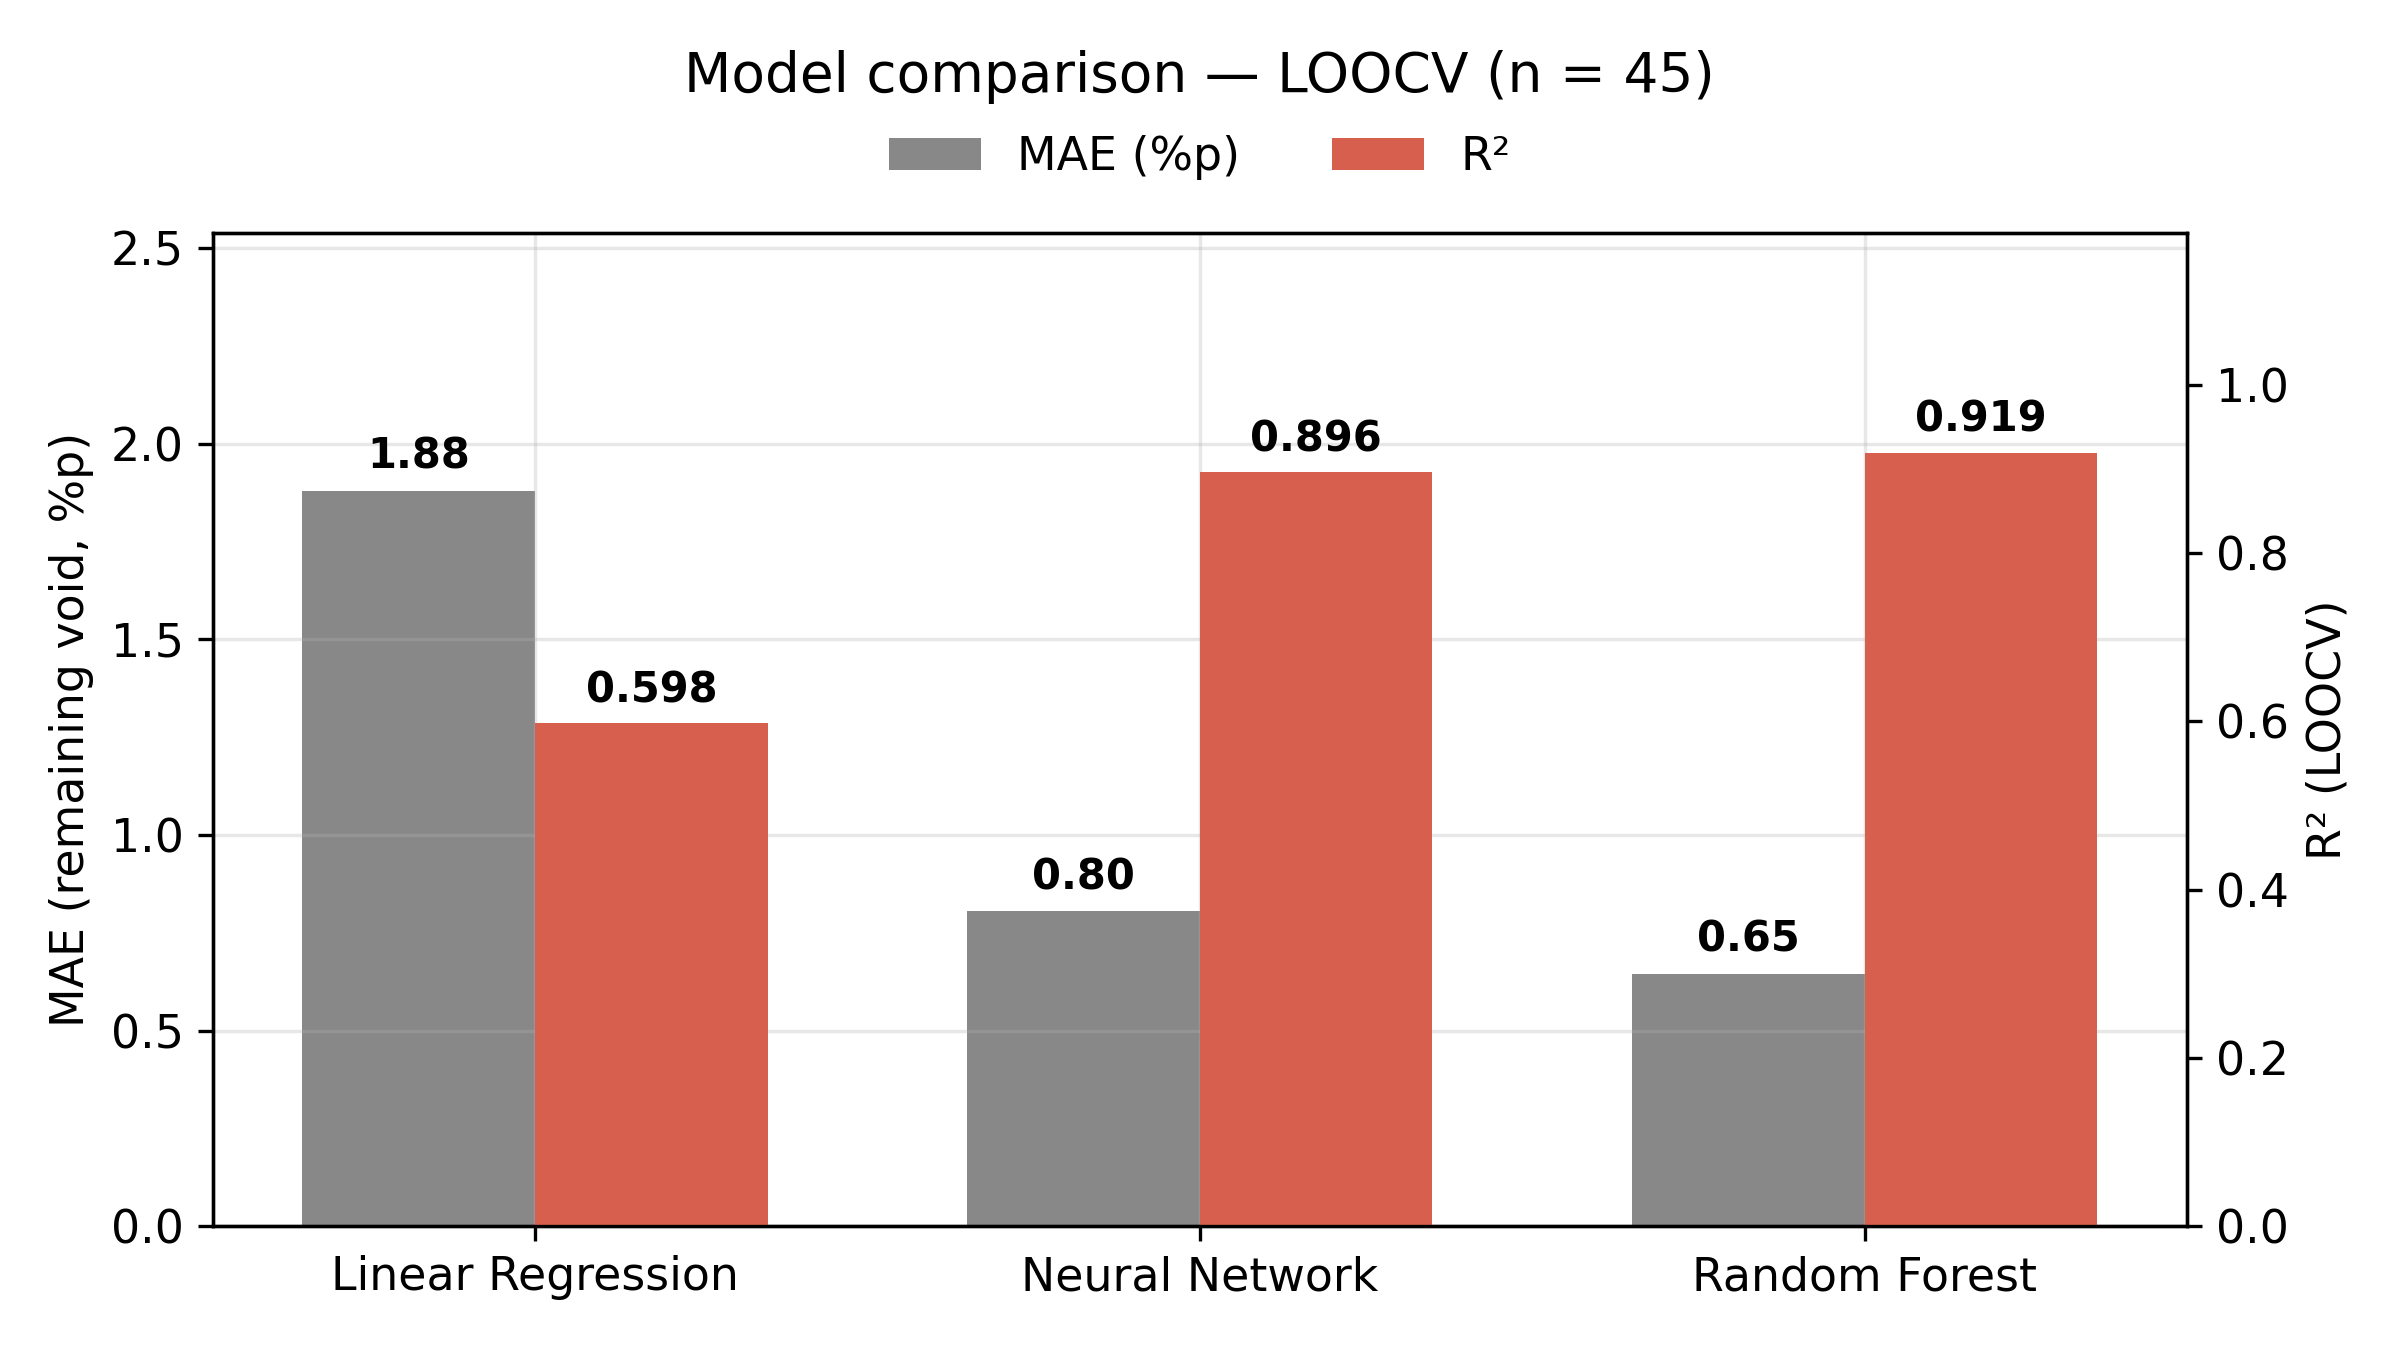
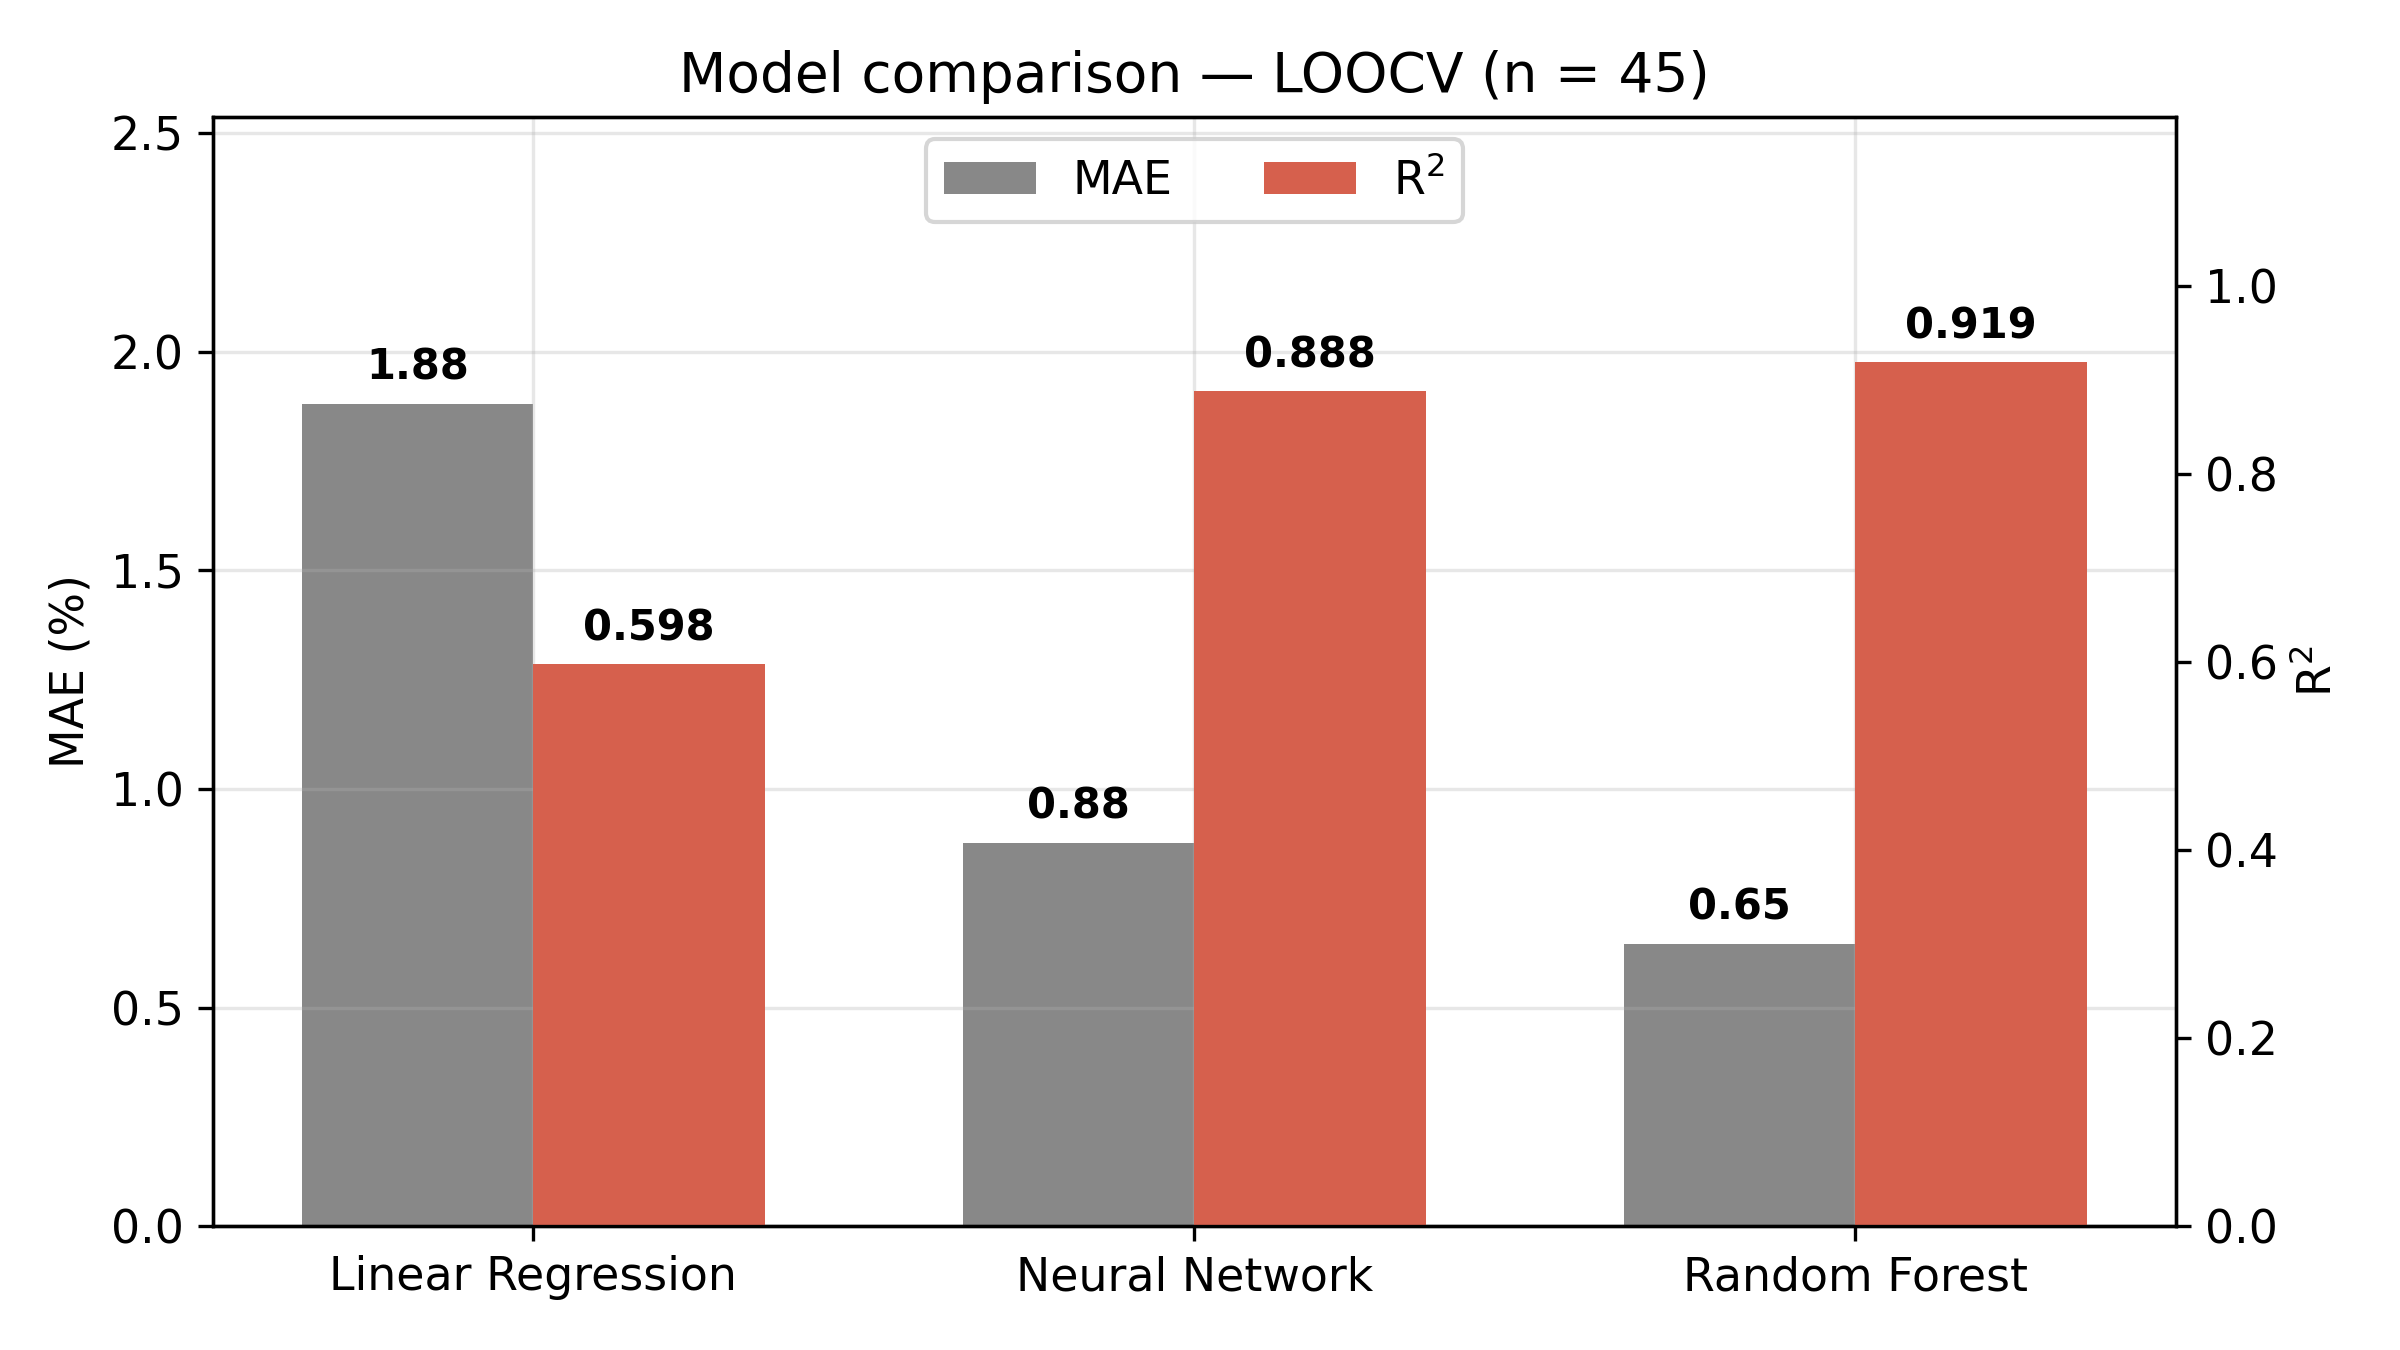
Update void_analysis_v2.py and fig3_models.png

diff --git a/void_analysis_v2.py b/void_analysis_v2.py
@@ -1,0 +1,218 @@
+import numpy as np, pandas as pd, matplotlib
+matplotlib.use('Agg')
+import matplotlib.pyplot as plt
+from sklearn.ensemble import RandomForestRegressor
+from sklearn.linear_model import LinearRegression
+from sklearn.neural_network import MLPRegressor
+from sklearn.pipeline import make_pipeline
+from sklearn.preprocessing import StandardScaler
+from sklearn.model_selection import LeaveOneOut, cross_val_predict
+from sklearn.metrics import r2_score, mean_absolute_error, mean_squared_error
+from sklearn.inspection import permutation_importance
+
+BASE = 'C:/Workspace/UF_Optimization/Optimization_Code/'
+
+RS = 42
+data = [
+(1,28.1,0.09,5,2.5),(2,31,0.09,5,2.1),(3,24,0.09,5,1.7),(4,13.2,0.09,5,1),(5,16,0.09,5,1.2),
+(6,11,0.09,5,1.3),(7,2,0.09,5,0.7),(8,8.3,0.09,5,1.4),(9,4.1,0.09,5,0.8),
+(10,23.9,0.09,3,2),(11,26,0.09,3,1.8),(12,28,0.09,3,2.3),(13,15.8,0.09,3,1.8),(14,12,0.09,3,1.5),
+(15,17.5,0.09,3,1.2),(16,3,0.09,3,1.1),(17,4.3,0.09,3,1),(18,5.5,0.09,3,1.2),
+(19,33,0.09,1,1.9),(20,25,0.09,1,2.1),(21,20.4,0.09,1,2.2),(22,17.9,0.09,1,0.9),(23,14.6,0.09,1,1.2),
+(24,16.2,0.09,1,1.3),(25,2.5,0.09,1,0.9),(26,2,0.09,1,0.7),(27,7.3,0.09,1,0.8),
+(28,22.3,0.06,3,8.6),(29,24.6,0.06,3,8.1),(30,27.9,0.06,3,6.6),(31,15.1,0.06,3,6.7),(32,11.8,0.06,3,6.9),
+(33,14.9,0.06,3,7.5),(34,4.7,0.06,3,2.5),(35,2.9,0.06,3,2),(36,6.8,0.06,3,1.8),
+(37,24.6,0.03,3,16.1),(38,22.3,0.03,3,15),(39,21,0.03,3,14.2),(40,10.2,0.03,3,7),(41,15,0.03,3,8.1),
+(42,17.2,0.03,3,6.8),(43,3.2,0.03,3,2.6),(44,7.6,0.03,3,2.1),(45,2.4,0.03,3,2),
+]
+df = pd.DataFrame(data, columns=['run','vinit','P','t','vrem'])
+df.to_csv(BASE+'raw45.csv', index=False)
+X = df[['P','t','vinit']].values
+y = df['vrem'].values
+loo = LeaveOneOut()
+
+def rf(**kw):
+    p = dict(n_estimators=50, max_depth=4, min_samples_leaf=2, random_state=RS)
+    p.update(kw)
+    return make_pipeline(StandardScaler(), RandomForestRegressor(**p))
+
+def metrics(yt, yp):
+    return r2_score(yt, yp), mean_absolute_error(yt, yp), np.sqrt(mean_squared_error(yt, yp))
+
+# ===== Models under LOOCV =====
+models = {
+ 'Linear Regression': make_pipeline(StandardScaler(), LinearRegression()),
+ 'Neural Network': make_pipeline(StandardScaler(), MLPRegressor(hidden_layer_sizes=(15,8), activation='relu',
+        solver='lbfgs', max_iter=5000, random_state=RS)),
+ 'Random Forest': rf(),
+}
+results, preds = {}, {}
+for name, m in models.items():
+    yp = cross_val_predict(m, X, y, cv=loo)
+    preds[name] = yp
+    results[name] = metrics(y, yp)
+    print(f"{name:18s} R2={results[name][0]:.4f}  MAE={results[name][1]:.3f}  RMSE={results[name][2]:.3f}")
+
+# ===== Hyperparameter sweeps (LOOCV R2) =====
+def sweep(param, values):
+    out = []
+    for v in values:
+        yp = cross_val_predict(rf(**{param:v}), X, y, cv=loo)
+        out.append(r2_score(y, yp))
+    return out
+trees_v = [1,5,10,20,30,50,100,200]
+depth_v = [1,2,3,4,5,6,8,None]
+leaf_v  = [1,2,3,4,5]
+r2_trees = sweep('n_estimators', trees_v)
+r2_depth = sweep('max_depth', depth_v)
+r2_leaf  = sweep('min_samples_leaf', leaf_v)
+print('trees:', dict(zip(trees_v, [round(v,3) for v in r2_trees])))
+print('depth:', dict(zip([str(d) for d in depth_v], [round(v,3) for v in r2_depth])))
+print('leaf :', dict(zip(leaf_v, [round(v,3) for v in r2_leaf])))
+
+# ===== Permutation importance (final model, full data, RMSE increase) =====
+final = rf().fit(X, y)
+pi = permutation_importance(final, X, y, scoring='neg_root_mean_squared_error', n_repeats=50, random_state=RS)
+print('perm importance dRMSE: P=%.3f t=%.3f vinit=%.3f' % tuple(pi.importances_mean))
+
+# ===== Per-regime parity diagnostics =====
+yp_rf = preds['Random Forest']
+for p in [0.09,0.06,0.03]:
+    m = df['P']==p
+    err = yp_rf[m]-y[m]
+    print(f"P={p}: n={m.sum()} MAE={np.abs(err).mean():.2f} bias={err.mean():+.2f} maxabs={np.abs(err).max():.2f}")
+resid = yp_rf - y
+print(f"overall residual mean={resid.mean():+.3f} std={resid.std():.3f}")
+
+# ===== Recommended pressure table (minimum predicted remaining void, t=3 min) =====
+Pgrid = np.linspace(0.03, 0.09, 601)
+def p_opt(vinit):
+    Xg = np.column_stack([Pgrid, np.full_like(Pgrid,3.0), np.full_like(Pgrid,vinit)])
+    pred = final.predict(Xg)
+    idx = np.argmin(pred)
+    return Pgrid[idx], pred[idx]
+tab = {}
+for vi in [5,10,15,20,25,30]:
+    tab[vi] = p_opt(vi)
+print('P_opt table (P at min predicted void):', {k:(round(p,3), round(v,2)) for k,(p,v) in tab.items()})
+
+# ============ FIGURES ============
+plt.rcParams.update({'font.size':11,'axes.grid':True,'grid.alpha':0.3})
+FD=BASE+'figs/'
+import os; os.makedirs(FD, exist_ok=True)
+
+# --- Fig 2: hyperparameter tuning (1x3) ---
+fig, axes = plt.subplots(1,3, figsize=(12.5,3.0))
+axes[0].plot(trees_v, r2_trees,'o-',color='#2166ac'); axes[0].set_xlabel('Number of trees'); axes[0].set_ylabel('LOOCV R²'); axes[0].set_title('(a)', loc='left', fontweight='bold')
+dl = [str(d) if d else 'None' for d in depth_v]
+axes[1].plot(range(len(depth_v)), r2_depth,'s-',color='#b2182b'); axes[1].set_xticks(range(len(depth_v))); axes[1].set_xticklabels(dl); axes[1].set_xlabel('Maximum depth'); axes[1].set_title('(b)', loc='left', fontweight='bold')
+axes[2].plot(leaf_v, r2_leaf,'^-',color='#1b7837'); axes[2].set_xlabel('Minimum samples per leaf'); axes[2].set_title('(c)', loc='left', fontweight='bold')
+for a in axes: a.set_ylim(0.3,1.0)
+plt.tight_layout(); plt.savefig(FD+'fig2_hp.png', dpi=300); plt.close()
+
+# --- Fig 3: model comparison ---
+names = list(results.keys())
+maes = [results[n][1] for n in names]; r2s = [results[n][0] for n in names]
+fig, ax1 = plt.subplots(figsize=(8,4.5))
+xp = np.arange(3); w=0.35
+b1 = ax1.bar(xp-w/2, maes, w, color='#888', label='MAE')
+
+# 변경됨: 좌측 Y축 라벨 'MAE'
+ax1.set_ylabel('MAE (%)')
+ax1.set_xticks(xp); ax1.set_xticklabels(names)
+ax1.set_ylim(0, max(maes)*1.35) # 범례를 내부에 넣기 위해 윗 공간을 충분히 확보
+
+ax2 = ax1.twinx(); ax2.grid(False)
+b2 = ax2.bar(xp+w/2, r2s, w, color='#d6604d', label='R$^2$')
+
+# 변경됨: 우측 Y축 라벨 'R^2'
+ax2.set_ylabel('R$^2$')
+ax2.set_ylim(0,1.18)
+
+for i,(m,r) in enumerate(zip(maes,r2s)):
+    ax1.text(i-w/2, m+max(maes)*0.03, f'{m:.2f}', ha='center', fontweight='bold', fontsize=10)
+    ax2.text(i+w/2, r+0.025, f'{r:.3f}', ha='center', fontweight='bold', fontsize=10)
+
+# 변경됨: pad 옵션 제거 및 범례(legend) 박스 안으로 이동
+ax1.set_title('Model comparison — LOOCV (n = 45)')
+h1,l1 = ax1.get_legend_handles_labels()
+h2,l2 = ax2.get_legend_handles_labels()
+
+# bbox_to_anchor 제거, loc을 'upper center'로 지정하고 배경을 하얗게(frameon=True) 지정하여 가독성 향상
+ax1.legend(h1+h2, l1+l2, loc='upper center', ncol=2, frameon=True)
+plt.tight_layout(); plt.savefig(FD+'fig3_models.png', dpi=300); plt.close()
+
+# --- Fig 4: parity plot ---
+fig, ax = plt.subplots(figsize=(5.2,4.6))
+sc = ax.scatter(y, yp_rf, c=df['P'], cmap='viridis', s=70, edgecolor='k', zorder=3)
+lim=[0,17]; ax.plot(lim,lim,'--',color='gray'); ax.fill_between(lim,[l-1 for l in lim],[l+1 for l in lim],color='gray',alpha=0.15,label='±1 %p band')
+ax.set_xlim(lim); ax.set_ylim(lim)
+ax.set_xlabel('Actual remaining void (%)'); ax.set_ylabel('Predicted remaining void (%)')
+ax.set_title(f'Random Forest — LOOCV (R² = {results["Random Forest"][0]:.3f})')
+cb = plt.colorbar(sc); cb.set_label('Vacuum pressure (MPa)')
+ax.legend(loc='upper left')
+plt.tight_layout(); plt.savefig(FD+'fig4_parity.png', dpi=300); plt.close()
+
+# --- Fig 5: response surface (fixed t = 3 min) ---
+pg = np.linspace(0.03,0.09,120); vg = np.linspace(2,33,120)
+PP, VV = np.meshgrid(pg, vg)
+Z = final.predict(np.column_stack([PP.ravel(), np.full(PP.size,3.0), VV.ravel()])).reshape(PP.shape)
+pad_p = 0.005; pad_v = 2.5
+pg_ext = np.linspace(0.03-pad_p, 0.09+pad_p, 120); vg_ext = np.linspace(2-pad_v, 33+pad_v, 120)
+PPe, VVe = np.meshgrid(pg_ext, vg_ext)
+Ze = final.predict(np.column_stack([PPe.ravel(), np.full(PPe.size,3.0), VVe.ravel()])).reshape(PPe.shape)
+fig, axes = plt.subplots(1,2, figsize=(12.5,4.4))
+cs = axes[0].contourf(PPe, VVe, Ze, levels=20, cmap='RdYlGn_r')
+axes[0].scatter(df['P'], df['vinit'], c='white', s=32, edgecolor='k', linewidth=0.8, zorder=3)
+axes[0].set_xlim(0.03-pad_p, 0.09+pad_p); axes[0].set_ylim(2-pad_v, 33+pad_v)
+plt.colorbar(cs, ax=axes[0], label='Predicted remaining void (%)')
+axes[0].set_xlabel('Vacuum pressure (MPa)'); axes[0].set_ylabel('Initial void fraction (%)')
+axes[0].set_title('(a) Response surface (t = 3 min)', loc='left', fontweight='bold')
+colors = plt.cm.plasma(np.linspace(0.1,0.85,6))
+for vi,ccol in zip([5,10,15,20,25,30],colors):
+    zz = final.predict(np.column_stack([pg, np.full_like(pg,3.0), np.full_like(pg,vi)]))
+    axes[1].plot(pg, zz, color=ccol, label=f'V_init = {vi}%')
+axes[1].scatter(df['P'], df['vrem'], c='k', s=14, alpha=0.5, zorder=3)
+axes[1].set_xlabel('Vacuum pressure (MPa)'); axes[1].set_ylabel('Remaining void (%)')
+axes[1].set_title('(b) 1D cross-sections', loc='left', fontweight='bold'); axes[1].legend(fontsize=9)
+plt.tight_layout(); plt.savefig(FD+'fig5_surface.png', dpi=300); plt.close()
+
+# --- Fig 6: process window maps (P × t), 2x3, with P at minimum predicted void ---
+tg = np.linspace(1,5,80)
+fig, axes = plt.subplots(2,3, figsize=(12.5,6.4), sharex=True, sharey=True)
+for idx,(vi,ax) in enumerate(zip([5,10,15,20,25,30], axes.ravel())):
+    PP2, TT2 = np.meshgrid(pg, tg)
+    Z2 = final.predict(np.column_stack([PP2.ravel(), TT2.ravel(), np.full(PP2.size,float(vi))])).reshape(PP2.shape)
+    cs = ax.contourf(PP2, TT2, Z2, levels=20, cmap='RdYlGn_r', vmin=0, vmax=16)
+    pr, _ = tab[vi]
+    ax.axvline(pr, color='navy', ls='--', lw=1.8)
+    lab = chr(ord('a')+idx)
+    ax.set_title(f'({lab}) Initial void = {vi}%', loc='left', fontweight='bold', fontsize=11)
+for ax in axes[1]: ax.set_xlabel('Vacuum pressure (MPa)')
+for ax in axes[:,0]: ax.set_ylabel('Holding time (min)')
+fig.colorbar(cs, ax=axes, label='Predicted remaining void (%)', shrink=0.85)
+plt.savefig(FD+'fig6_pw.png', dpi=300, bbox_inches='tight'); plt.close()
+
+# --- Fig 7: RF prediction vs pressure at vinit=20%, t=3 min (shows the step/plateau structure) ---
+vi_demo, t_demo = 20.0, 3.0
+Pfine = np.linspace(0.03, 0.09, 300)
+pred_fine = final.predict(np.column_stack([Pfine, np.full_like(Pfine,t_demo), np.full_like(Pfine,vi_demo)]))
+fig, ax = plt.subplots(figsize=(6.5,4.4))
+ax.scatter(Pfine, pred_fine, s=14, color='#2166ac', zorder=3)
+ax.set_xlabel('Vacuum pressure (MPa)'); ax.set_ylabel('Predicted remaining void (%)')
+ax.set_title(f'RF prediction vs pressure (V_init = {vi_demo:.0f}%, t = {t_demo:.0f} min)')
+plt.tight_layout(); plt.savefig(FD+'fig7_stepfunction.png', dpi=300); plt.close()
+
+print(f'\nRF prediction vs pressure (V_init = {vi_demo:.0f}%, t = {t_demo:.0f} min)')
+print(f'{"P (MPa)":>10} | {"pred (%)":>9}')
+for p_show in np.arange(0.030, 0.0901, 0.005):
+    pv = final.predict([[p_show, t_demo, vi_demo]])[0]
+    print(f'{p_show:10.3f} | {pv:9.3f}')
+
+change = np.where(np.abs(np.diff(pred_fine)) > 1e-6)[0]
+bounds = [0] + (change+1).tolist() + [len(Pfine)-1]
+print('\nDetected plateaus (leaf boundaries):')
+for i in range(len(bounds)-1):
+    a,b = bounds[i], bounds[i+1]-1 if i < len(bounds)-2 else bounds[i+1]
+    print(f'  P in [{Pfine[a]:.3f}, {Pfine[b]:.3f}] -> pred = {pred_fine[a]:.3f}%')
+print('figures saved')
